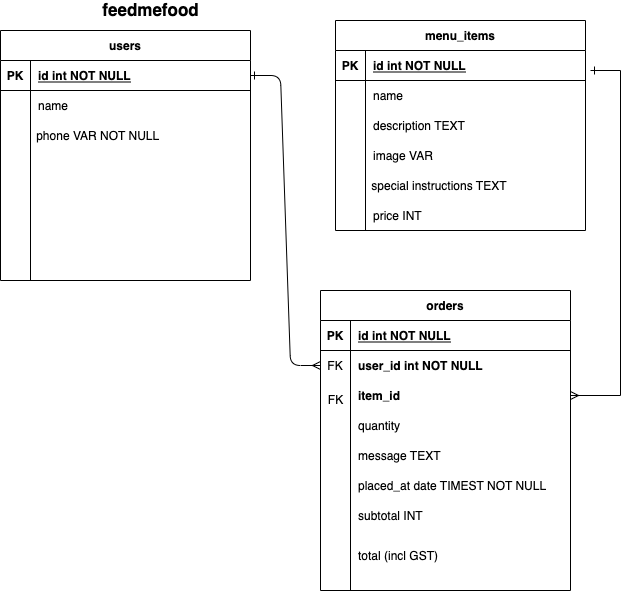
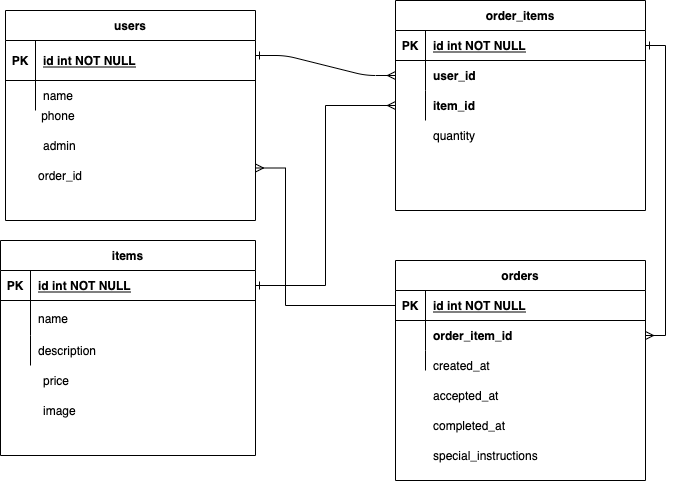
erd, db and seeds modified

diff --git a/project-setup.md b/project-setup.md
@@ -6,10 +6,10 @@
   - As a user I can receive notifications when my order is ready so that I'm aware of the status
 
 #### TABLES
-  - users - admins
+  - users 
   - orders
-  - menu items
-  - orders-items
+  - items (menu)
+  - order_items (shopping cart)
 
 #### ADMIN ROUTES
 
